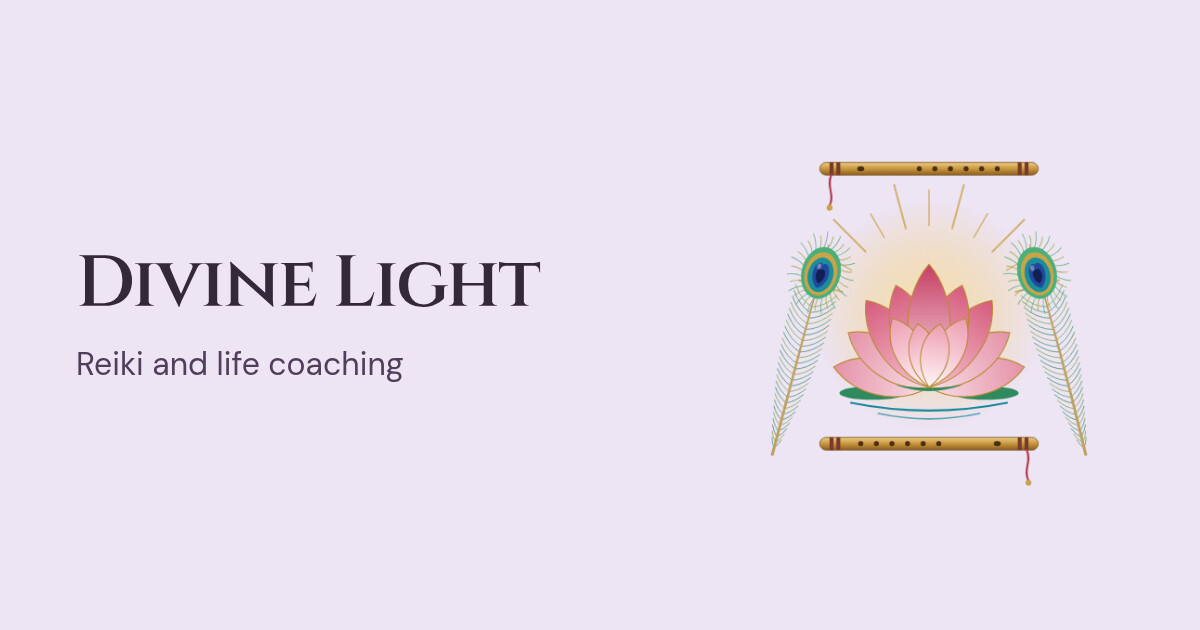
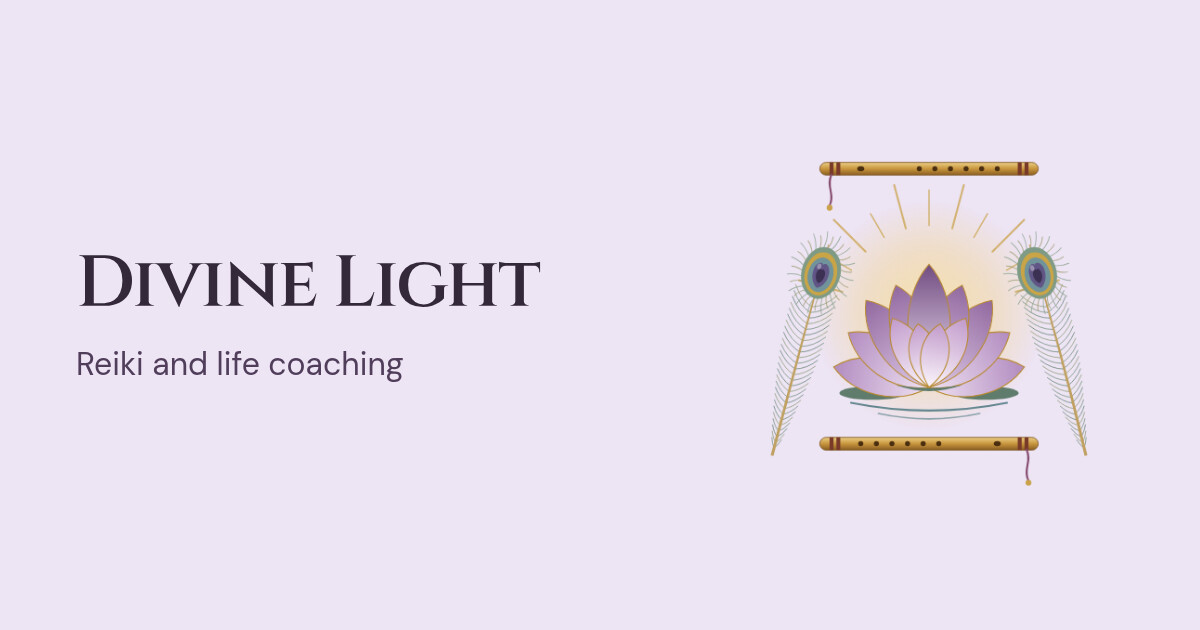
Set the membership quote over the forest and harmonize lotus colors

Changed region(s): [[0.6783, 0.3921, 0.8942, 0.6635], [0.6475, 0.3921, 0.7092, 0.4825]]

diff --git a/assets/members.css b/assets/members.css
@@ -189,25 +189,48 @@
   grid-template-columns: minmax(0, 1fr);
 }
 .member-hero-image {
-  display: block;
+  position: relative;
+  display: grid;
+  align-items: end;
   grid-row: 1;
+  margin: 0;
   width: 100%;
-  height: auto;
+  min-height: 220px;
   aspect-ratio: 16 / 9;
-  object-fit: cover;
+  isolation: isolate;
 }
-.member-preview-copy { margin: 16px 0; }
-#account .member-preview-copy p { color: var(--brand-plum); }
+.member-hero-image img,
+.member-hero-image::after {
+  position: absolute;
+  inset: 0;
+  width: 100%;
+  height: 100%;
+}
+.member-hero-image img { object-fit: cover; }
+.member-hero-image::after {
+  content: "";
+  background: linear-gradient(to top, rgba(24, 20, 26, .9), rgba(24, 20, 26, .55) 36%, transparent 72%);
+}
+.member-hero-image figcaption {
+  position: relative;
+  z-index: 1;
+  max-width: 18ch;
+  padding: 0 clamp(20px, 4vw, 40px) clamp(18px, 3vw, 32px);
+  color: #fff;
+  font: 400 clamp(1.65rem, 3vw, 2.6rem)/1.12 var(--serif);
+  text-shadow: 0 1px 4px #242024;
+}
+.member-preview-copy { margin: 12px 0 16px; }
 .member-preview-copy a { display: inline-flex; align-items: center; min-height: 44px; }
 @media (min-width: 800px) {
   .member-hero:has(.member-hero-image:not([hidden])) {
     grid-template-columns: minmax(0, 1fr) minmax(0, 1fr);
-    align-items: stretch;
     gap: clamp(24px, 4vw, 48px);
   }
+  .member-hero-copy { grid-column: 2; grid-row: 1; }
   .member-hero-image {
-    grid-column: 2;
-    height: 100%;
+    grid-column: 1;
+    align-self: stretch;
     min-height: 320px;
     aspect-ratio: auto;
   }

diff --git a/members.html b/members.html
@@ -107,7 +107,6 @@ img,svg{display:block;max-width:100%;}
     <h1 id="account-title" tabindex="-1">Your member library</h1>
     <p id="subscription-status"></p>
     <div class="member-preview-copy" id="member-preview-copy" hidden>
-      <p>Let’s walk toward the divine light together.</p>
       <a class="text-link" href="/membership-test">Preview the member library</a>
     </div>
     <div class="offers">
@@ -115,7 +114,10 @@ img,svg{display:block;max-width:100%;}
       <div class="membership" id="library-offer" hidden><strong>$100 one time</strong><span>Download the whole library to keep</span><button class="cta" id="buy-library" type="button">Buy the library</button></div>
     </div>
   </div>
-  <img class="member-hero-image" id="member-preview" src="/assets/member-woodland-path.webp" alt="" width="1200" height="640" hidden>
+  <figure class="member-hero-image" id="member-preview" hidden>
+    <img src="/assets/member-woodland-path.webp" alt="" width="1200" height="640">
+    <figcaption>Let’s walk toward the divine light together.</figcaption>
+  </figure>
 </div>
 <section class="downloads" id="downloads" hidden aria-labelledby="downloads-title">
 <h2 id="downloads-title">Your library downloads</h2>

diff --git a/index.html b/index.html
@@ -11,12 +11,12 @@
 <meta property="og:title" content="Divine Light">
 <meta property="og:description" content="Reiki and life coaching with Akhilesh Dwivedi, in person or online.">
 <meta property="og:url" content="https://divinelighthealing-lifecoach.com/">
-<meta property="og:image" content="https://divinelighthealing-lifecoach.com/assets/divine-light-share.jpg">
+<meta property="og:image" content="https://divinelighthealing-lifecoach.com/assets/divine-light-share.jpg?v=lavender">
 <meta property="og:image:width" content="1200">
 <meta property="og:image:height" content="630">
 <meta property="og:image:alt" content="Divine Light Reiki and life coaching beside the lotus emblem">
 <meta name="twitter:card" content="summary_large_image">
-<meta name="twitter:image" content="https://divinelighthealing-lifecoach.com/assets/divine-light-share.jpg">
+<meta name="twitter:image" content="https://divinelighthealing-lifecoach.com/assets/divine-light-share.jpg?v=lavender">
 <link rel="icon" href="/assets/favicon.svg?v=lotus" type="image/svg+xml">
 <link rel="icon" href="/favicon-32.png?v=lotus" sizes="32x32" type="image/png">
 <link rel="apple-touch-icon" href="/apple-touch-icon.png?v=lotus">

diff --git a/journal.html b/journal.html
@@ -11,12 +11,12 @@
 <meta property="og:title" content="Journal | Divine Light">
 <meta property="og:description" content="Stories and reflections by Akhilesh Dwivedi.">
 <meta property="og:url" content="https://divinelighthealing-lifecoach.com/journal">
-<meta property="og:image" content="https://divinelighthealing-lifecoach.com/assets/divine-light-share.jpg">
+<meta property="og:image" content="https://divinelighthealing-lifecoach.com/assets/divine-light-share.jpg?v=lavender">
 <meta property="og:image:width" content="1200">
 <meta property="og:image:height" content="630">
 <meta property="og:image:alt" content="Divine Light Reiki and life coaching beside the lotus emblem">
 <meta name="twitter:card" content="summary_large_image">
-<meta name="twitter:image" content="https://divinelighthealing-lifecoach.com/assets/divine-light-share.jpg">
+<meta name="twitter:image" content="https://divinelighthealing-lifecoach.com/assets/divine-light-share.jpg?v=lavender">
 <link rel="icon" href="/assets/favicon.svg?v=lotus" type="image/svg+xml">
 <link rel="icon" href="/favicon-32.png?v=lotus" sizes="32x32" type="image/png">
 <link rel="apple-touch-icon" href="/apple-touch-icon.png?v=lotus">

diff --git a/subconscious-programming.html b/subconscious-programming.html
@@ -11,12 +11,12 @@
 <meta property="og:title" content="Divine Light">
 <meta property="og:description" content="Healing and Life Coaching">
 <meta property="og:url" content="https://divinelighthealing-lifecoach.com/subconscious-programming">
-<meta property="og:image" content="https://divinelighthealing-lifecoach.com/assets/divine-light-share.jpg">
+<meta property="og:image" content="https://divinelighthealing-lifecoach.com/assets/divine-light-share.jpg?v=lavender">
 <meta property="og:image:width" content="1200">
 <meta property="og:image:height" content="630">
 <meta property="og:image:alt" content="Divine Light Reiki and life coaching beside the lotus emblem">
 <meta name="twitter:card" content="summary_large_image">
-<meta name="twitter:image" content="https://divinelighthealing-lifecoach.com/assets/divine-light-share.jpg">
+<meta name="twitter:image" content="https://divinelighthealing-lifecoach.com/assets/divine-light-share.jpg?v=lavender">
 <link rel="icon" href="/assets/favicon.svg?v=lotus" type="image/svg+xml">
 <link rel="icon" href="/favicon-32.png?v=lotus" sizes="32x32" type="image/png">
 <link rel="apple-touch-icon" href="/apple-touch-icon.png?v=lotus">

diff --git a/listening-service.html b/listening-service.html
@@ -11,12 +11,12 @@
 <meta property="og:title" content="Divine Light">
 <meta property="og:description" content="Healing and Life Coaching">
 <meta property="og:url" content="https://divinelighthealing-lifecoach.com/listening-service">
-<meta property="og:image" content="https://divinelighthealing-lifecoach.com/assets/divine-light-share.jpg">
+<meta property="og:image" content="https://divinelighthealing-lifecoach.com/assets/divine-light-share.jpg?v=lavender">
 <meta property="og:image:width" content="1200">
 <meta property="og:image:height" content="630">
 <meta property="og:image:alt" content="Divine Light Reiki and life coaching beside the lotus emblem">
 <meta name="twitter:card" content="summary_large_image">
-<meta name="twitter:image" content="https://divinelighthealing-lifecoach.com/assets/divine-light-share.jpg">
+<meta name="twitter:image" content="https://divinelighthealing-lifecoach.com/assets/divine-light-share.jpg?v=lavender">
 <link rel="icon" href="/assets/favicon.svg?v=lotus" type="image/svg+xml">
 <link rel="icon" href="/favicon-32.png?v=lotus" sizes="32x32" type="image/png">
 <link rel="apple-touch-icon" href="/apple-touch-icon.png?v=lotus">

diff --git a/anxiety-support.html b/anxiety-support.html
@@ -11,12 +11,12 @@
 <meta property="og:title" content="Divine Light">
 <meta property="og:description" content="Healing and Life Coaching">
 <meta property="og:url" content="https://divinelighthealing-lifecoach.com/anxiety-support">
-<meta property="og:image" content="https://divinelighthealing-lifecoach.com/assets/divine-light-share.jpg">
+<meta property="og:image" content="https://divinelighthealing-lifecoach.com/assets/divine-light-share.jpg?v=lavender">
 <meta property="og:image:width" content="1200">
 <meta property="og:image:height" content="630">
 <meta property="og:image:alt" content="Divine Light Reiki and life coaching beside the lotus emblem">
 <meta name="twitter:card" content="summary_large_image">
-<meta name="twitter:image" content="https://divinelighthealing-lifecoach.com/assets/divine-light-share.jpg">
+<meta name="twitter:image" content="https://divinelighthealing-lifecoach.com/assets/divine-light-share.jpg?v=lavender">
 <link rel="icon" href="/assets/favicon.svg?v=lotus" type="image/svg+xml">
 <link rel="icon" href="/favicon-32.png?v=lotus" sizes="32x32" type="image/png">
 <link rel="apple-touch-icon" href="/apple-touch-icon.png?v=lotus">

diff --git a/emotional-detox.html b/emotional-detox.html
@@ -11,12 +11,12 @@
 <meta property="og:title" content="Divine Light">
 <meta property="og:description" content="Healing and Life Coaching">
 <meta property="og:url" content="https://divinelighthealing-lifecoach.com/emotional-detox">
-<meta property="og:image" content="https://divinelighthealing-lifecoach.com/assets/divine-light-share.jpg">
+<meta property="og:image" content="https://divinelighthealing-lifecoach.com/assets/divine-light-share.jpg?v=lavender">
 <meta property="og:image:width" content="1200">
 <meta property="og:image:height" content="630">
 <meta property="og:image:alt" content="Divine Light Reiki and life coaching beside the lotus emblem">
 <meta name="twitter:card" content="summary_large_image">
-<meta name="twitter:image" content="https://divinelighthealing-lifecoach.com/assets/divine-light-share.jpg">
+<meta name="twitter:image" content="https://divinelighthealing-lifecoach.com/assets/divine-light-share.jpg?v=lavender">
 <link rel="icon" href="/assets/favicon.svg?v=lotus" type="image/svg+xml">
 <link rel="icon" href="/favicon-32.png?v=lotus" sizes="32x32" type="image/png">
 <link rel="apple-touch-icon" href="/apple-touch-icon.png?v=lotus">

diff --git a/chakra-healing.html b/chakra-healing.html
@@ -11,12 +11,12 @@
 <meta property="og:title" content="Divine Light">
 <meta property="og:description" content="Healing and Life Coaching">
 <meta property="og:url" content="https://divinelighthealing-lifecoach.com/chakra-healing">
-<meta property="og:image" content="https://divinelighthealing-lifecoach.com/assets/divine-light-share.jpg">
+<meta property="og:image" content="https://divinelighthealing-lifecoach.com/assets/divine-light-share.jpg?v=lavender">
 <meta property="og:image:width" content="1200">
 <meta property="og:image:height" content="630">
 <meta property="og:image:alt" content="Divine Light Reiki and life coaching beside the lotus emblem">
 <meta name="twitter:card" content="summary_large_image">
-<meta name="twitter:image" content="https://divinelighthealing-lifecoach.com/assets/divine-light-share.jpg">
+<meta name="twitter:image" content="https://divinelighthealing-lifecoach.com/assets/divine-light-share.jpg?v=lavender">
 <link rel="icon" href="/assets/favicon.svg?v=lotus" type="image/svg+xml">
 <link rel="icon" href="/favicon-32.png?v=lotus" sizes="32x32" type="image/png">
 <link rel="apple-touch-icon" href="/apple-touch-icon.png?v=lotus">

diff --git a/library-relax.html b/library-relax.html
@@ -11,12 +11,12 @@
 <meta property="og:title" content="Divine Light">
 <meta property="og:description" content="Healing and Life Coaching">
 <meta property="og:url" content="https://divinelighthealing-lifecoach.com/library-relax">
-<meta property="og:image" content="https://divinelighthealing-lifecoach.com/assets/divine-light-share.jpg">
+<meta property="og:image" content="https://divinelighthealing-lifecoach.com/assets/divine-light-share.jpg?v=lavender">
 <meta property="og:image:width" content="1200">
 <meta property="og:image:height" content="630">
 <meta property="og:image:alt" content="Divine Light Reiki and life coaching beside the lotus emblem">
 <meta name="twitter:card" content="summary_large_image">
-<meta name="twitter:image" content="https://divinelighthealing-lifecoach.com/assets/divine-light-share.jpg">
+<meta name="twitter:image" content="https://divinelighthealing-lifecoach.com/assets/divine-light-share.jpg?v=lavender">
 <link rel="icon" href="/assets/favicon.svg?v=lotus" type="image/svg+xml">
 <link rel="icon" href="/favicon-32.png?v=lotus" sizes="32x32" type="image/png">
 <link rel="apple-touch-icon" href="/apple-touch-icon.png?v=lotus">

diff --git a/life-coaching.html b/life-coaching.html
@@ -11,12 +11,12 @@
 <meta property="og:title" content="Divine Light">
 <meta property="og:description" content="Healing and Life Coaching">
 <meta property="og:url" content="https://divinelighthealing-lifecoach.com/life-coaching">
-<meta property="og:image" content="https://divinelighthealing-lifecoach.com/assets/divine-light-share.jpg">
+<meta property="og:image" content="https://divinelighthealing-lifecoach.com/assets/divine-light-share.jpg?v=lavender">
 <meta property="og:image:width" content="1200">
 <meta property="og:image:height" content="630">
 <meta property="og:image:alt" content="Divine Light Reiki and life coaching beside the lotus emblem">
 <meta name="twitter:card" content="summary_large_image">
-<meta name="twitter:image" content="https://divinelighthealing-lifecoach.com/assets/divine-light-share.jpg">
+<meta name="twitter:image" content="https://divinelighthealing-lifecoach.com/assets/divine-light-share.jpg?v=lavender">
 <link rel="icon" href="/assets/favicon.svg?v=lotus" type="image/svg+xml">
 <link rel="icon" href="/favicon-32.png?v=lotus" sizes="32x32" type="image/png">
 <link rel="apple-touch-icon" href="/apple-touch-icon.png?v=lotus">

diff --git a/testimonials.html b/testimonials.html
@@ -11,12 +11,12 @@
 <meta property="og:title" content="Divine Light">
 <meta property="og:description" content="Healing and Life Coaching">
 <meta property="og:url" content="https://divinelighthealing-lifecoach.com/testimonials">
-<meta property="og:image" content="https://divinelighthealing-lifecoach.com/assets/divine-light-share.jpg">
+<meta property="og:image" content="https://divinelighthealing-lifecoach.com/assets/divine-light-share.jpg?v=lavender">
 <meta property="og:image:width" content="1200">
 <meta property="og:image:height" content="630">
 <meta property="og:image:alt" content="Divine Light Reiki and life coaching beside the lotus emblem">
 <meta name="twitter:card" content="summary_large_image">
-<meta name="twitter:image" content="https://divinelighthealing-lifecoach.com/assets/divine-light-share.jpg">
+<meta name="twitter:image" content="https://divinelighthealing-lifecoach.com/assets/divine-light-share.jpg?v=lavender">
 <link rel="icon" href="/assets/favicon.svg?v=lotus" type="image/svg+xml">
 <link rel="icon" href="/favicon-32.png?v=lotus" sizes="32x32" type="image/png">
 <link rel="apple-touch-icon" href="/apple-touch-icon.png?v=lotus">
